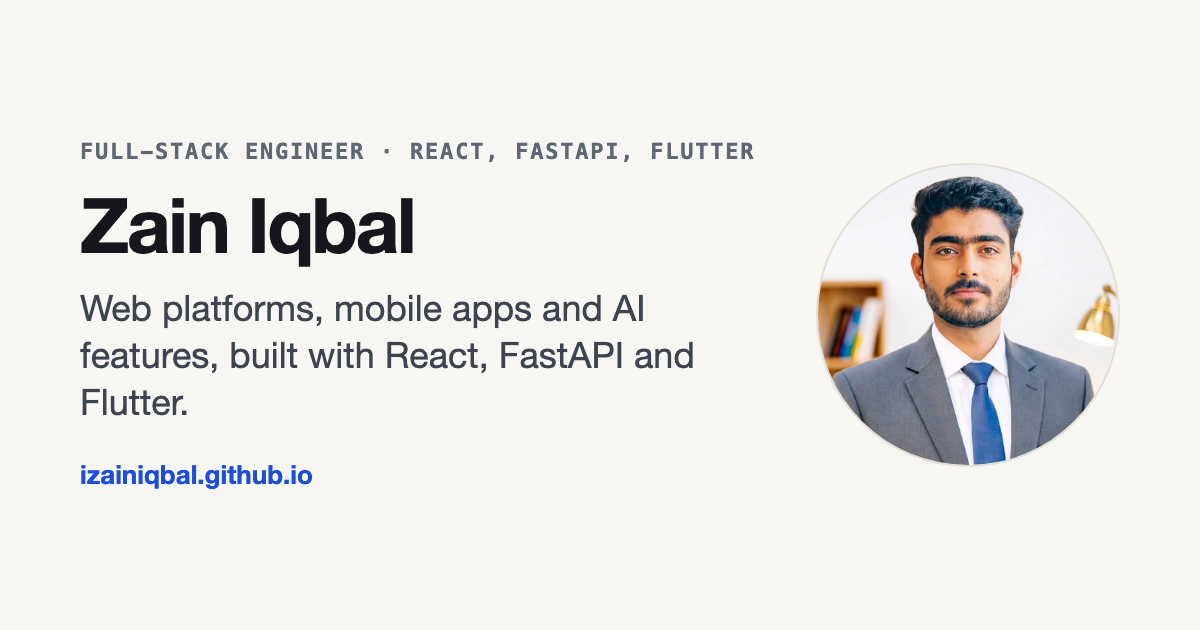
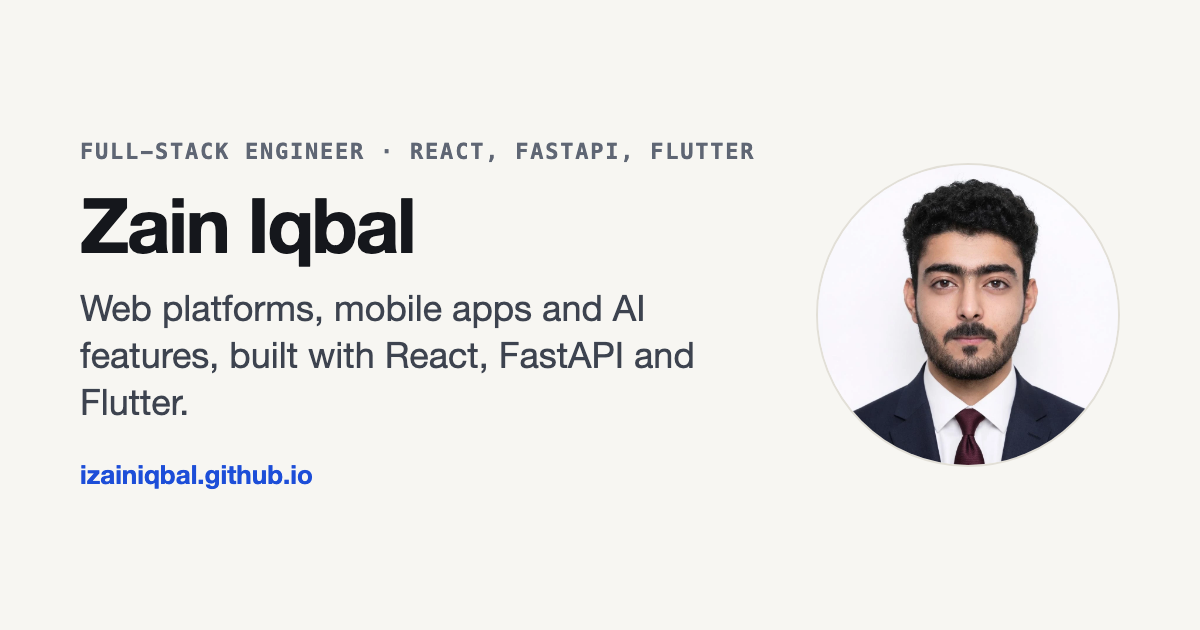
Refactor code structure for improved readability and maintainability

Changed region(s): [[0.6783, 0.2714, 0.925, 0.754], [0.8942, 0.4524, 0.9558, 0.5429]]

diff --git a/src/content/projects/mindmemo.md b/src/content/projects/mindmemo.md
@@ -11,6 +11,10 @@ myWork:
   - Built long-term memory. After each chat, the app saves key facts about the user on the phone and uses them in later chats.
   - Added optional web search, a reasoning mode with collapsible thinking steps, and a biometric lock with secure storage.
 stack: [Flutter, llama.cpp, Qwen2.5, SQLite, Provider, local_auth]
+screens:
+  - ../../assets/screens/mindmemo_chat.webp
+  - ../../assets/screens/mindmemo_memories.webp
+  - ../../assets/screens/mindmemo_models.webp
 featured: true
 order: 4
 verified: true

diff --git a/src/content/projects/lead-pipeline.md b/src/content/projects/lead-pipeline.md
@@ -12,7 +12,7 @@ myWork:
   - Wrote 223 automated tests covering every data source, filter and cleaning step, plus strict code checks.
   - Reads contact details from company websites while respecting each site's crawling rules.
 stack: [Python, pandas, parsel, FastAPI, SQLite, pytest, mypy, ruff, n8n, Claude API]
-featured: true
+featured: false
 order: 5
 verified: true
 ---
